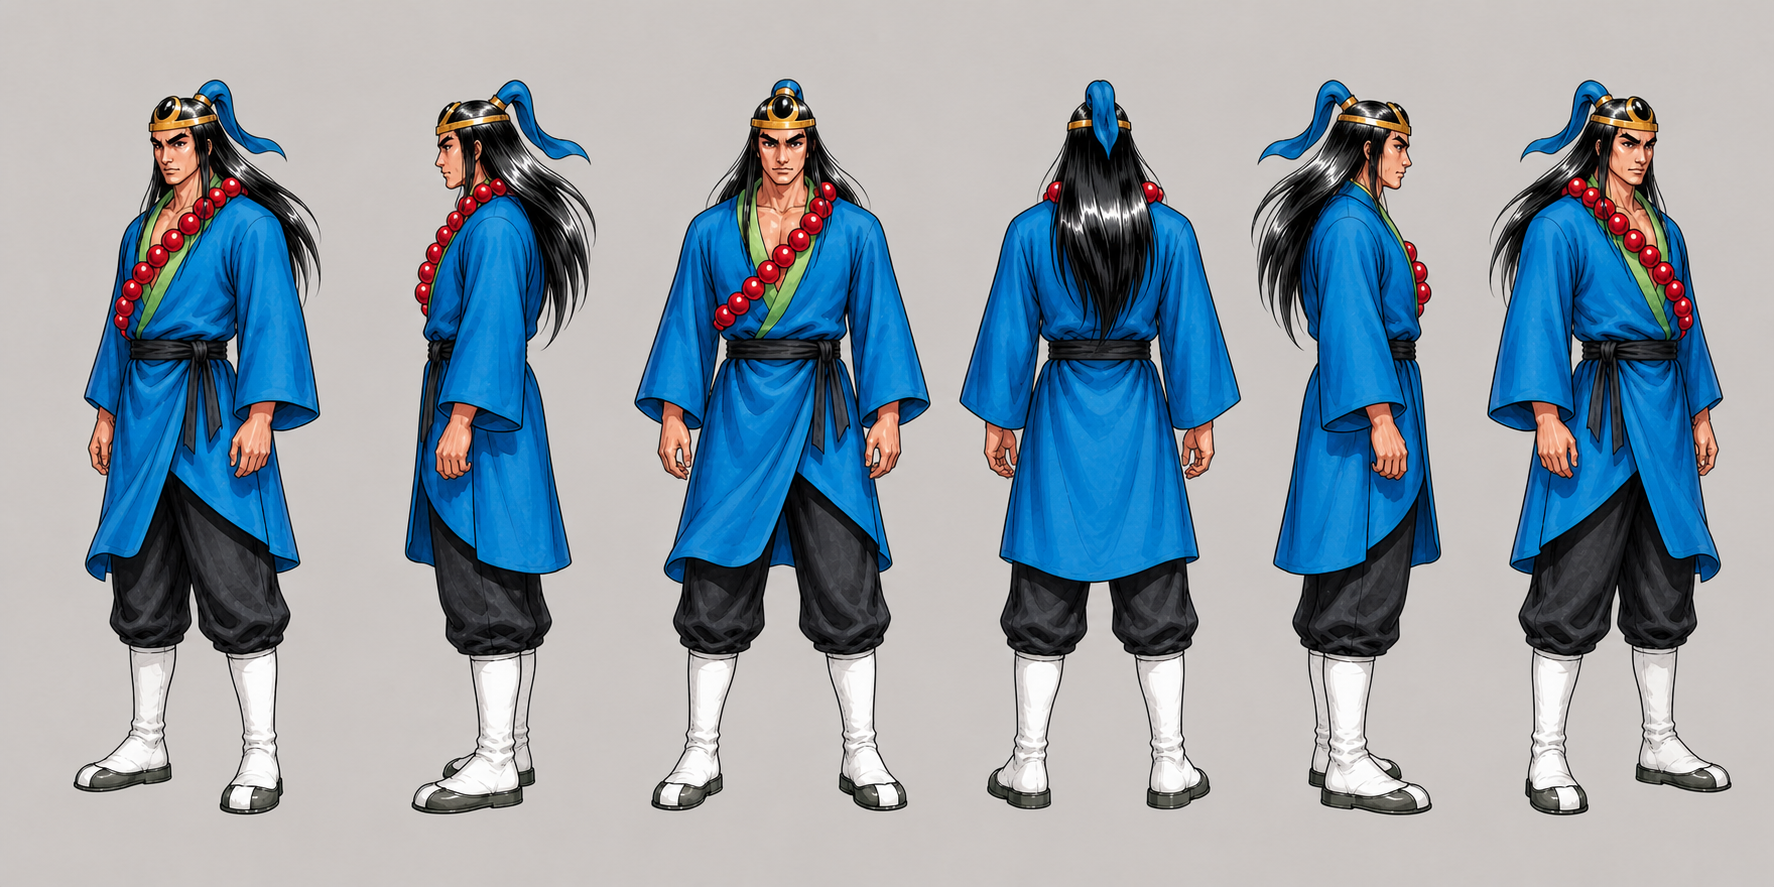
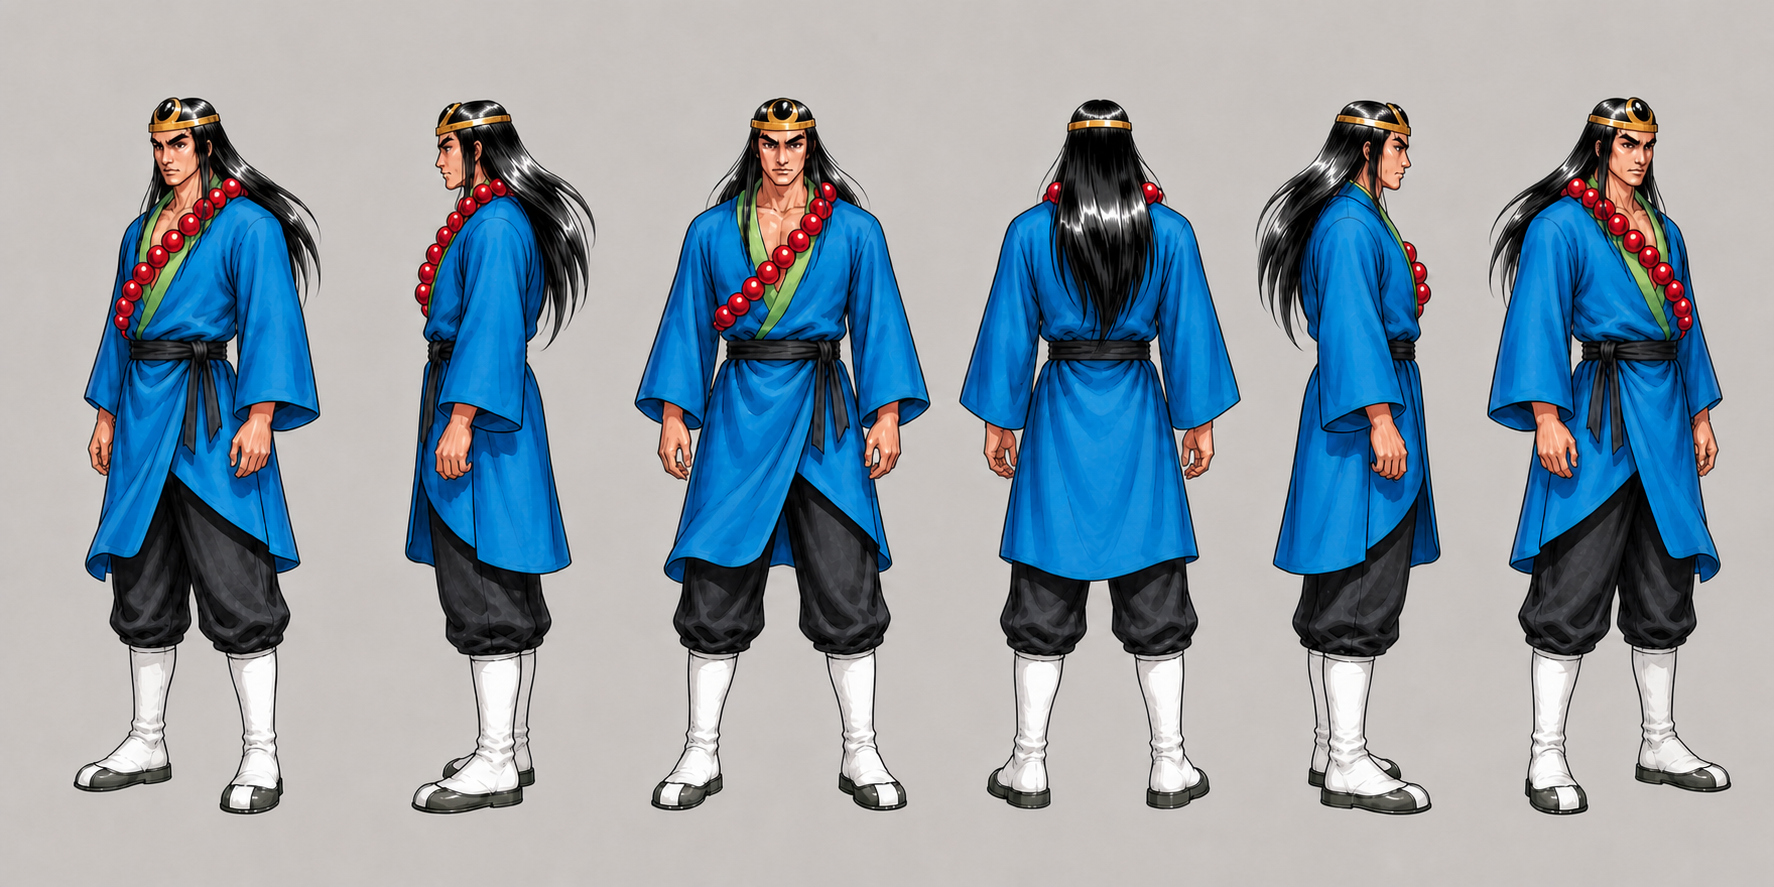
fix(角色014): 修正蓝色右袖误生为头顶辫子
依据原画移除六视图中错误的蓝色头部结构，并锁定右袖与右肩右臂的连接关系。\n\n同步更新角色规格、生成提示和复核记录，保留修复前版本。

diff --git a/character-model-sheets/characters/014/review-notes.md b/character-model-sheets/characters/014/review-notes.md
@@ -1,5 +1,11 @@
 # 014 新版六视图生产复核
 
+## 2026-08-21 局部返修
+
+- [x] 依据原画纠正证据：头后上方的蓝色形体为角色自身右手衣袖，不是蓝色辫子、发带或头饰。
+- [x] 六列头顶误生的蓝色布条已移除，恢复为黑色长发与原有金黑头冠。
+- [x] 右袖仍固定连接角色自身右肩—右臂；其余人物身份、服装、配色、视角、尺度、基线和背景保持不变。
+
 - 状态：`generated`，人物六视图与所需独立实体均已生成并通过全量复核；未标记为 `approved`。
 - 需交付：人物六视图；武器／标志道具。
 
